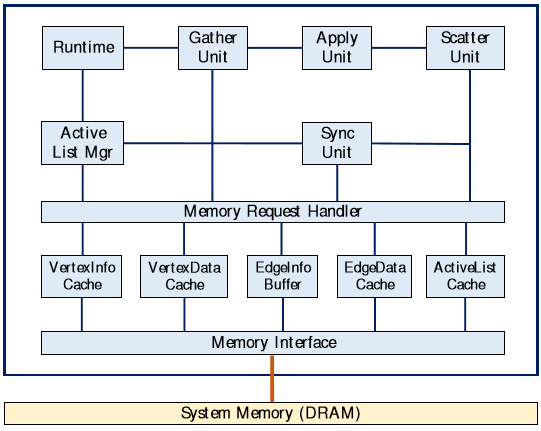
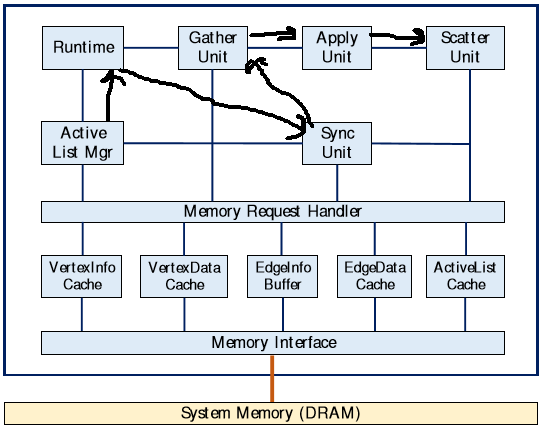
update accelerator unit

diff --git a/Energy-Efficient-Architecture-for-Graph-Analytics-Accelerators/README.md b/Energy-Efficient-Architecture-for-Graph-Analytics-Accelerators/README.md
@@ -20,6 +20,10 @@ It is similar to data-parallel computation. In data-parallel computation, we pro
   
 Vertex-centric means "think like a vertex".
 
+* What is scale-free graph?
+
+It is a graph type whose degree distribution follows a power law.
+
 
 ## Notes:
 
@@ -98,4 +102,27 @@ Then, the user fills in the pre-defined functions corresponding to different GAS
 All these structures and functions are defined in C and plugged into the architecture template.
 
 ### Proposed Architecture
+Single accelerator unit connected to the system DRAM.
+
 ![Proposed Architecture](figures/proposed_architecture.png)
+
+Accelerator is loosely-coupled with host processor and it is connected to the system DRAM. Host processor populates the graph data in DRAM and sends a signal to the accelerators. Once the accelerator finishes computation, it sends a signal back to host.
+
+* Tens of vertices and hundreds of edges are processed **simultaneously** to achieve high levels of MLP.
+* Scale-free graphs are handled through dynamic load balancing.
+* Synchronization between concurrently processed vertices and edges is done in the Sync Unit (SYU)
+* The set of active vertices is maintained by the Active List Manager (ALM)
+* The memory subsystem is optimized for sparse graph data structures.
+
+
+**AL**: Active List. Containst set of active vertices.\
+**RT**: Runtime. Controls how many vertices can be processed at a given time. \
+**SYU**: Sync Unit. Responsible for sequential consistency between vertices that are being executed concurrently. \
+**GU**: Gather Unit. Loads the data associated with each vertex. Iterates over all incoming edges of a vertex. Accumulates the data specified by the application. \
+**APU**: Apply Unit. Does the computation. \
+**SCU**: Scatter Unit. Schedules neighbors for future execution if necessary.
+
+#### Execution Flow
+ALM extracts vertices from AL and sends them to RT. If there are enough resources, RT starts the execution of a vertex by sending it to the SYU. SYU assigns a rank to each vertex, and sends it to the GU. GU loads the data associated with each vertex. Then, iterates over all incoming edges of a vertex and accumulates the data specified by the application. GU sends the data to APU. APU does the computation. APU sends computed data to SCU. SCU distributes it to the neighbors and schedules neighbors for future execution if necessary.
+
+#### A. Gather Unit (GU)
